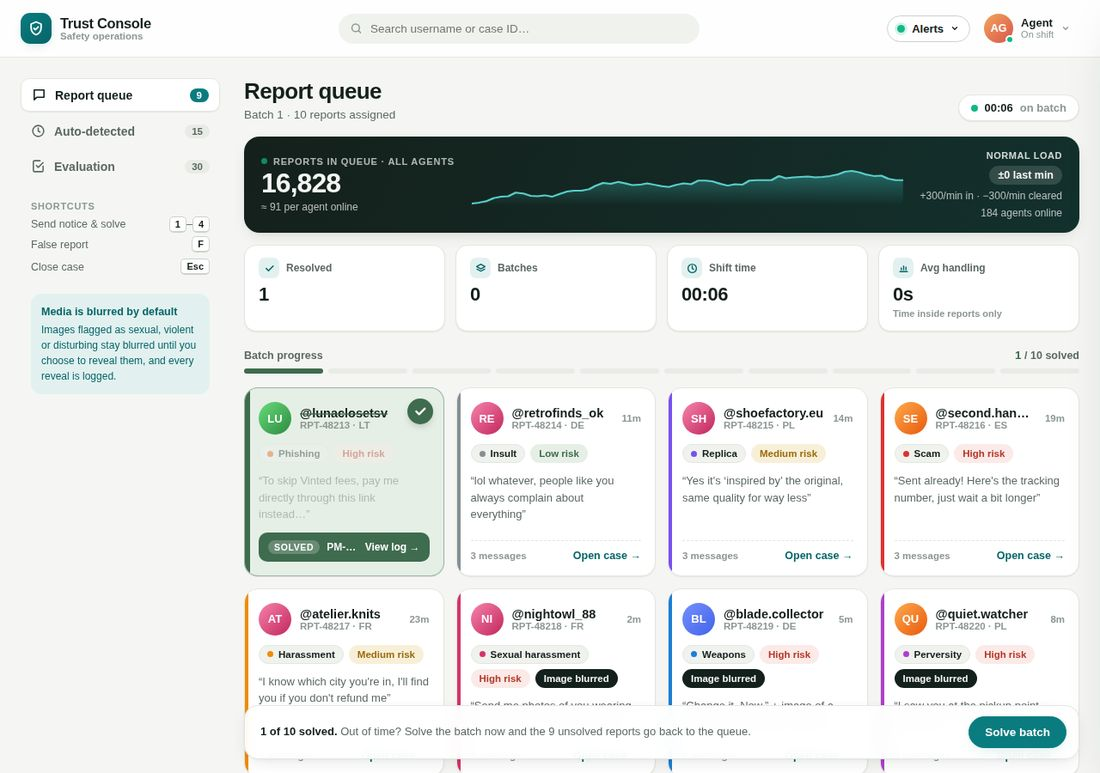
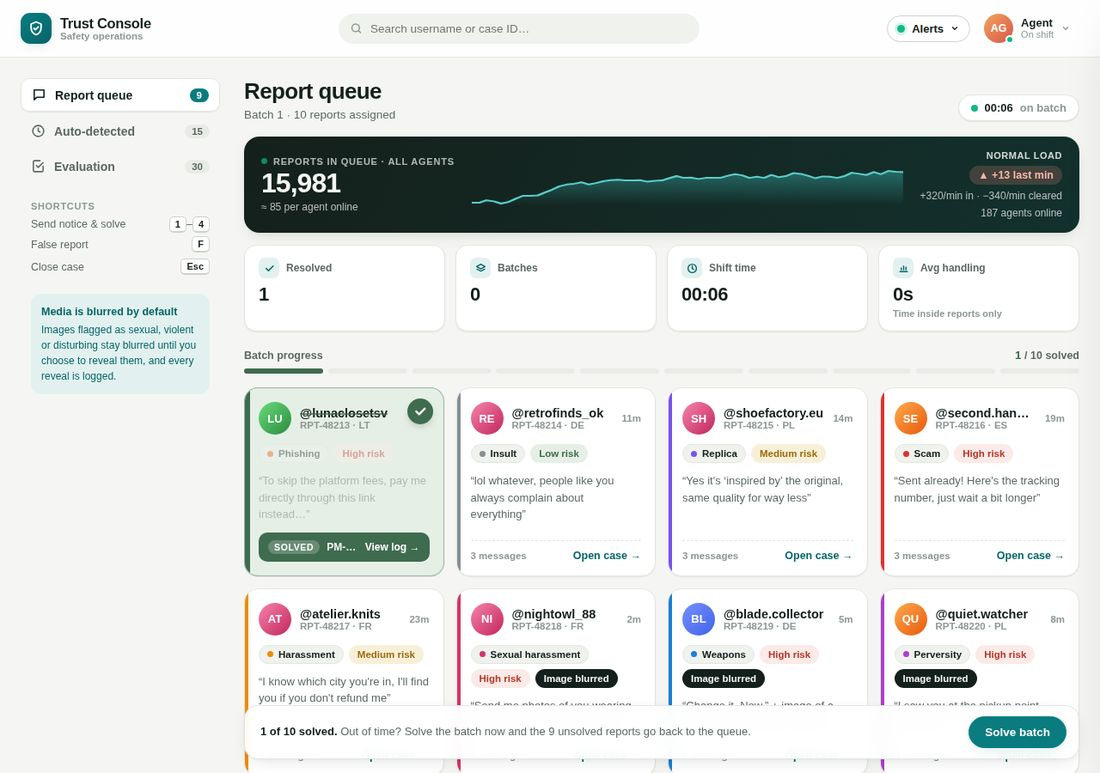
Add files via upload

Changed region(s): [[0.4327, 0.2173, 0.8345, 0.2794], [0.8655, 0.2173, 0.9582, 0.2484], [0.2473, 0.2173, 0.3091, 0.2484]]

diff --git a/demo.html b/demo.html
@@ -978,15 +978,15 @@ const AV_GRADS = [
 const BATCHES = [
   [
     { handle:"@lunaclosetsv", cid:"RPT-48213", cat:"Phishing", conf:92, risk:"high", wait:"6m",
-      snippet:"“To skip Vinted fees, pay me directly through this link instead…”",
+      snippet:"“To skip the platform fees, pay me directly through this link instead…”",
       country:"LT", reg:"2 days ago", status:"Active", twofa:"Off", convos:1, feedback:0,
       info:"Email unverified · No prior transactions · 1 listing",
       ipRisk:87, ipNote:"Matches IP used on 4 other suspended accounts this month.",
       items:[{n:"Denim jacket, size M", p:"€18"}],
       thread:[
         {who:"reporter", text:"Hi, is the jacket still available? Can we talk price?"},
-        {who:"reported", text:"Yes! To skip Vinted fees, pay me directly through this link instead:", flag:true},
-        {who:"reported", text:"vinted-secure-payment.com/confirm — you'll get it 10% cheaper.", flag:true},
+        {who:"reported", text:"Yes! To skip the platform fees, pay me directly through this link instead:", flag:true},
+        {who:"reported", text:"secure-payment-confirm.com/confirm — you'll get it 10% cheaper.", flag:true},
         {who:"reporter", text:"That doesn't look like an official link, I'm reporting this."}
       ]},
     { handle:"@retrofinds_ok", cid:"RPT-48214", cat:"Insult", conf:64, risk:"low", wait:"11m",
@@ -1102,7 +1102,7 @@ const BATCHES = [
       ipRisk:81, ipNote:"Same IP as 2 accounts suspended for phishing last week.",
       items:[],
       thread:[
-        {who:"reporter", text:"Great, I'll ship it tomorrow through Vinted as usual."},
+        {who:"reporter", text:"Great, I'll ship it tomorrow through the app as usual."},
         {who:"reported", text:"The courier needs your card details to release the parcel, fill in this form: parcel-verify-lt.com", flag:true},
         {who:"reporter", text:"Why would a seller need to give card details? Reporting."}
       ]},
@@ -1219,7 +1219,7 @@ const BATCHES = [
       items:[{n:"Vintage wool blazer", p:"€34"},{n:"Silk blouse, S", p:"€18"}],
       thread:[
         {who:"reporter", text:"How do I know I'll get my money back if something goes wrong?"},
-        {who:"reported", text:"Here's the help page that explains how buyer protection works: vinted.lt/help", flag:true},
+        {who:"reported", text:"Here's the help page that explains how buyer protection works: help.marketplace.example/buyer-protection", flag:true},
         {who:"reporter", text:"I don't click links from strangers, reporting."}
       ]},
     { handle:"@quick.buy.24", cid:"RPT-48234", cat:"Phishing", conf:89, risk:"high", wait:"2m",
@@ -1328,9 +1328,9 @@ const BATCHES = [
 const DISMISS = "We reviewed this report and didn't find a breach of our policies. No action has been taken on either account.";
 const NOTICE_CATEGORIES = {
   "Phishing":[
-    {code:"PM-PHISHING-WARN", desc:"First offense — formal warning, no restriction yet.", body:"We reviewed a report about this conversation. Sharing payment links outside Vinted breaks our rules and puts buyers at risk. This is a warning on your account."},
-    {code:"PM-PHISHING-SUSPEND", desc:"Account restricted pending further review.", body:"Sharing payment links outside Vinted breaks our rules. Your account has been restricted while we look into it further."},
-    {code:"PM-PHISHING-BAN", desc:"Repeat offender — account permanently closed.", body:"Following repeated reports, your account has been permanently closed for directing users to payment methods outside Vinted.", severe:true},
+    {code:"PM-PHISHING-WARN", desc:"First offense — formal warning, no restriction yet.", body:"We reviewed a report about this conversation. Sharing payment links outside the platform breaks our rules and puts buyers at risk. This is a warning on your account."},
+    {code:"PM-PHISHING-SUSPEND", desc:"Account restricted pending further review.", body:"Sharing payment links outside the platform breaks our rules. Your account has been restricted while we look into it further."},
+    {code:"PM-PHISHING-BAN", desc:"Repeat offender — account permanently closed.", body:"Following repeated reports, your account has been permanently closed for directing users to payment methods outside the platform.", severe:true},
     {code:"PM-PHISHING-ESCALATE", desc:"Routed to Security — data handling involved.", body:"We've flagged this conversation to our Security team. Your account is temporarily restricted while this is reviewed.", severe:true},
     {code:"PM-PHISHING-DISMISS", desc:"Reviewed — link was not a phishing attempt.", body:DISMISS}
   ],
@@ -1342,14 +1342,14 @@ const NOTICE_CATEGORIES = {
     {code:"HARASSMENT-DISMISS", desc:"Reviewed — language did not breach policy.", body:DISMISS}
   ],
   "Insult":[
-    {code:"INSULT-WARN", desc:"First offense — formal warning.", body:"A message you sent was reported for disrespectful language. Please keep conversations on Vinted respectful. This is a warning on your account."},
+    {code:"INSULT-WARN", desc:"First offense — formal warning.", body:"A message you sent was reported for disrespectful language. Please keep conversations on the platform respectful. This is a warning on your account."},
     {code:"INSULT-SUSPEND", desc:"Repeated insults — temporary suspension.", body:"Following repeated reports about disrespectful language, your account has been temporarily suspended."},
     {code:"INSULT-BAN", desc:"Persistent repeat offender — permanently closed.", body:"Following continued reports of abusive language, your account has been permanently closed.", severe:true},
     {code:"INSULT-MEDIATE", desc:"Both sides involved — warning sent to each.", body:"We reviewed this conversation and found it fell below our community standards on both sides. This is a warning to help keep future conversations respectful."},
     {code:"INSULT-DISMISS", desc:"Reviewed — language did not breach policy.", body:DISMISS}
   ],
   "Sexual harassment":[
-    {code:"SEXHAR-WARN", desc:"Inappropriate sexual remark, first offense — formal warning.", body:"A message you sent was reported as sexually inappropriate. This isn't allowed on Vinted. This is a formal warning on your account."},
+    {code:"SEXHAR-WARN", desc:"Inappropriate sexual remark, first offense — formal warning.", body:"A message you sent was reported as sexually inappropriate. This isn't allowed on the platform. This is a formal warning on your account."},
     {code:"SEXHAR-SUSPEND", desc:"Unwanted sexual advances or images — suspended.", body:"We found that you sent unwanted sexual messages or content to another member. Your account has been suspended while we review this further."},
     {code:"SEXHAR-BAN", desc:"Explicit content sent, or repeat offender — permanently closed.", body:"Following a review of sexually explicit or harassing messages sent to other members, your account has been permanently closed.", severe:true},
     {code:"SEXHAR-ESCALATE", desc:"Possible minor involved or criminal content — mandatory escalation.", body:"This case has been escalated to our specialist safety team. Your account is suspended while the investigation is ongoing.", severe:true},
@@ -1363,7 +1363,7 @@ const NOTICE_CATEGORIES = {
     {code:"THREAT-DISMISS", desc:"Reviewed — figure of speech, no genuine threat.", body:DISMISS}
   ],
   "Weapons":[
-    {code:"WEAPON-LISTING-REMOVE", desc:"Prohibited weapon listed for sale — listing removed.", body:"This listing was removed because weapons can't be sold on Vinted. Please review our list of prohibited items."},
+    {code:"WEAPON-LISTING-REMOVE", desc:"Prohibited weapon listed for sale — listing removed.", body:"This listing was removed because weapons can't be sold on the platform. Please review our list of prohibited items."},
     {code:"WEAPON-IMAGE-WARN", desc:"Weapon shown in chat, no threat and nothing offered for sale — removed + warning.", body:"An image you sent was removed because it showed a weapon. This is a warning on your account."},
     {code:"WEAPON-THREAT-SUSPEND", desc:"Weapon image used to intimidate — suspended.", body:"An image you sent showed a weapon in a threatening context. Your account has been suspended while we review this case.", severe:true},
     {code:"WEAPON-ESCALATE", desc:"Weapon plus explicit threat, or offering to sell a prohibited weapon — route to safety lead.", body:"This case has been escalated to our safety team. Your account is suspended while the investigation is ongoing.", severe:true},
@@ -1384,14 +1384,14 @@ const NOTICE_CATEGORIES = {
     {code:"SCAM-DISMISS", desc:"Reviewed — transaction matched what was agreed.", body:DISMISS}
   ],
   "Replica":[
-    {code:"REPLICA-REMOVE", desc:"Listing removed only, account in good standing.", body:"This listing was removed because it's a counterfeit or unauthorised copy of a branded item. Selling replicas isn't allowed on Vinted."},
+    {code:"REPLICA-REMOVE", desc:"Listing removed only, account in good standing.", body:"This listing was removed because it's a counterfeit or unauthorised copy of a branded item. Selling replicas isn't allowed on the platform."},
     {code:"REPLICA-WARN", desc:"Listing removed + formal warning.", body:"This listing was removed for being a counterfeit or unauthorised copy. This is a warning — repeated listings can lead to suspension."},
     {code:"REPLICA-SUSPEND", desc:"Pattern of replica listings — suspended.", body:"We found multiple counterfeit or unauthorised listings on your account. Your account has been suspended while we review this further.", severe:true},
     {code:"REPLICA-ESCALATE", desc:"Routed to Legal / rights holder.", body:"This case has been escalated to our Legal team as it may involve a rights holder's trademark. Your account is suspended in the meantime.", severe:true},
     {code:"REPLICA-DISMISS", desc:"Reviewed — item appears authentic.", body:DISMISS}
   ],
   "Feedback":[
-    {code:"FEEDBACK-EXTORTION-WARN", desc:"User pressured over a rating — formal warning.", body:"We reviewed a report about a message pressuring another member over their feedback. This isn't allowed on Vinted. This is a warning on your account."},
+    {code:"FEEDBACK-EXTORTION-WARN", desc:"User pressured over a rating — formal warning.", body:"We reviewed a report about a message pressuring another member over their feedback. This isn't allowed on the platform. This is a warning on your account."},
     {code:"FEEDBACK-EXTORTION-SUSPEND", desc:"Pattern of feedback pressure — suspended.", body:"We found a pattern of pressuring members over feedback. Your account has been suspended while we review this further.", severe:true},
     {code:"FEEDBACK-FAKE-REMOVE", desc:"Fabricated feedback — rating removed.", body:"We found this feedback didn't relate to a genuine transaction. It has been removed from the account it was left on."},
     {code:"FEEDBACK-RETALIATION-REMOVE", desc:"Retaliatory feedback after a resolved dispute — removed.", body:"This feedback was left in retaliation after a dispute was resolved. It has been removed and won't affect either account's rating."},
@@ -1422,7 +1422,7 @@ Object.entries(NOTICE_SCOPES).forEach(([s, cats]) => cats.forEach(c => CAT_TO_SC
 
 const AUTO_FLAGGED = [
   { handle:"@xk93jd8mqz", country:"NL", signup:"Web · Chrome on Windows", ip:"185.220.101.34", ipNote:"Known Tor exit node", emailVerified:"No", twofa:"Off", phone:"Not added", linked:["@qp71zx0kke","@mm4r8tq2ww"], profileViews:0, email:"xk93jd8mqz@tempmail-plus.com", age:"14 min ago", conf:94, signals:["Random-string username","Disposable email domain","0 items · 0 conversations"] },
-  { handle:"@vinted.support01", country:"LT", signup:"Web · Firefox on Linux", ip:"91.214.124.8", ipNote:"Hosting provider, not residential", emailVerified:"No", twofa:"Off", phone:"Not added", linked:["@vinted.helpdesk","@vinted_team.eu"], profileViews:3, email:"support-team@vintedd-help.com", age:"3 min ago", conf:97, signals:["Impersonates an official account","Lookalike domain","0 items · 0 conversations"] },
+  { handle:"@official.support01", country:"LT", signup:"Web · Firefox on Linux", ip:"91.214.124.8", ipNote:"Hosting provider, not residential", emailVerified:"No", twofa:"Off", phone:"Not added", linked:["@official.helpdesk","@official_team.eu"], profileViews:3, email:"support-team@officiall-help.com", age:"3 min ago", conf:97, signals:["Impersonates an official account","Lookalike domain","0 items · 0 conversations"] },
   { handle:"@user9273810293", country:"PL", signup:"Android app", ip:"37.47.212.90", ipNote:"Mobile carrier IP", emailVerified:"No", twofa:"Off", phone:"Not added", linked:[], profileViews:0, email:"qz7dkf@mailinator.com", age:"41 min ago", conf:81, signals:["Default numeric username","Disposable email domain","0 items · 0 conversations"] },
   { handle:"@freegiftcard_eu", country:"DE", signup:"Web · Chrome on macOS", ip:"45.132.227.61", ipNote:"VPN range, 12 signups in 24h", emailVerified:"Yes", twofa:"Off", phone:"Not added", linked:["@giftcard.drops","@winprize_eu","@free.voucher24"], profileViews:7, email:"promo@winbig-rewards.net", age:"8 min ago", conf:89, signals:["Giveaway keyword pattern","Newly registered domain","0 items · 0 conversations"] },
   { handle:"@mm.thompson", country:"GB", signup:"iOS app", ip:"82.132.214.5", ipNote:"Residential broadband", emailVerified:"Yes", twofa:"On", phone:"Verified", linked:[], profileViews:1, email:"m.thompson84@gmail.com", age:"2 hrs ago", conf:22, signals:["Standard username","Common email provider","0 items · 0 conversations"] }
@@ -1570,7 +1570,7 @@ function itemMeta(c, it){
   const id = 4000000000 + (h % 900000000);
   const slug = it.n.toLowerCase().replace(/[“”"‘’']/g,'').replace(/[^a-z0-9]+/g,'-').replace(/^-|-$/g,'');
   const path = `/items/${id}-${slug}`;
-  return { id, hue: h % 360, path, url: `https://www.vinted.lt${path}` };
+  return { id, hue: h % 360, path, url: `https://marketplace.example${path}` };
 }
 function itemArt(hue){
   return `<svg viewBox="0 0 400 500" preserveAspectRatio="xMidYMid slice" xmlns="http://www.w3.org/2000/svg">
@@ -2000,8 +2000,8 @@ const TEMPLATES = [
   () => { const u = rstr(10); return { handle:'@'+u, email:`${u}@${pick(DISPOSABLE)}`,
     signals:['Random-string username','Disposable email domain','0 items · 0 conversations'],
     ipNote: pick(['Known Tor exit node','Datacenter IP range','VPN range, many signups in 24h']), emailVerified:'No', twofa:'Off', phone:'Not added' }; },
-  () => { const u = pick(['vinted.support','vinted_help','vintedteam','vinted.safety','vinted-payments']) + rstr(2,'0123456789'); return { handle:'@'+u,
-    email:`${pick(['support','help','security','billing'])}@${pick(['vintedd-help.com','vinted-secure.net','vlnted-support.eu','vinted-verify.org'])}`,
+  () => { const u = pick(['official.support','support_help','helpteam','safety.team','payments-team']) + rstr(2,'0123456789'); return { handle:'@'+u,
+    email:`${pick(['support','help','security','billing'])}@${pick(['officiall-help.com','secure-helpdesk.net','supp0rt-center.eu','verify-account.org'])}`,
     signals:['Impersonates an official account','Lookalike domain','0 items · 0 conversations'],
     ipNote:'Hosting provider, not residential', emailVerified:'No', twofa:'Off', phone:'Not added' }; },
   () => { const u = 'user' + rstr(10,'0123456789'); return { handle:'@'+u, email:`${rstr(6)}@${pick(DISPOSABLE)}`,
@@ -2120,7 +2120,7 @@ setInterval(() => {
 function profileMeta(a){
   const id = 100000000 + (hashStr(a.handle) % 899999999);
   const slug = a.handle.replace('@','').toLowerCase().replace(/[^a-z0-9._-]/g,'');
-  return { id, url: `https://www.vinted.lt/member/${id}-${slug}` };
+  return { id, url: `https://marketplace.example/member/${id}-${slug}` };
 }
 function renderAuto(){
   const list = $('auto-list');

diff --git a/index.html b/index.html
@@ -295,7 +295,7 @@ footer a{color:var(--muted)}
     <ol class="xp">
       <li>
         <div class="xp-head"><h3>Junior Content Trust &amp; Safety Specialist</h3><span class="when">June 2025 – present</span></div>
-        <p class="org">Transcom, on the Vinted account, Kaunas</p>
+        <p class="org">Transcom, Kaunas</p>
         <ul>
           <li>Review user activity, transactions and conversations to spot scams, suspicious behaviour and policy violations.</li>
           <li>Investigate complex and sensitive cases, weighing evidence, context and potential impact before deciding.</li>
@@ -332,7 +332,7 @@ footer a{color:var(--muted)}
 
 <footer>
   <div class="wrap">
-    <p>The Trust Console demo uses invented data and isn't affiliated with Transcom or Vinted.</p>
+    <p>The Trust Console demo uses invented data and isn't affiliated with any company.</p>
     <p>Layout inspired by <a href="https://ramtin2e.github.io/" target="_blank" rel="noopener">Ramtin Karimi's portfolio</a>.</p>
   </div>
 </footer>

diff --git a/README.md b/README.md
@@ -1,0 +1,18 @@
+# Julius Merzlikinas — portfolio
+
+Static site for GitHub Pages. No build step.
+
+## Put it online
+1. On GitHub, create a new **public** repository named exactly `YOUR-USERNAME.github.io`.
+2. Click **Add file → Upload files**, drag in everything from this folder (`index.html`, `resume.pdf`, `README.md` and the `imgs` folder), then **Commit changes**.
+3. Go to **Settings → Pages**. Under *Build and deployment*, choose **Deploy from a branch**, branch `main`, folder `/ (root)`, and save.
+4. After a minute or two the site is live at `https://YOUR-USERNAME.github.io`.
+
+## Edit later
+- Text: edit `index.html` directly on GitHub (pencil icon) and commit.
+- Photo: replace `imgs/profile.jpg` with a square image of the same name.
+- CV: replace `resume.pdf`, or delete it and remove the "CV (PDF)" button in `index.html`.
+
+## The demo
+`demo.html` is the Trust Console. It works for anyone, no account needed.
+Claude can't run live outside claude.ai, so the recommendation card replays Claude's answers from the prompt v4 test run and labels them "Claude · recorded run". The Evaluation page shows that run's real results.
